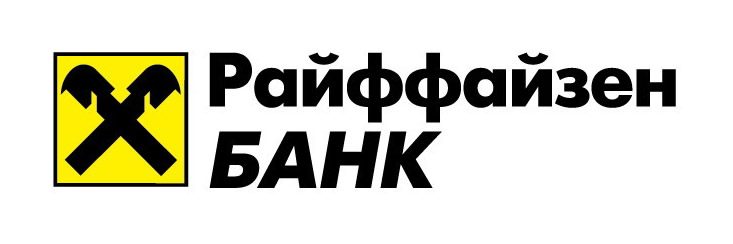
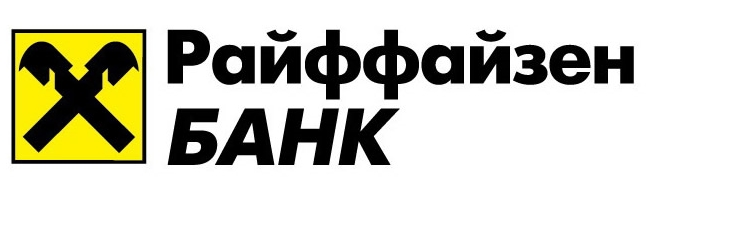
beautify partners

diff --git a/app/assets/stylesheets/application.css b/app/assets/stylesheets/application.css
@@ -7,6 +7,17 @@
 	background-color: #65b32e;
 }
 
+.vk {
+	max-height: 20px;
+}
+
+.fb {
+	max-height: 20px;
+}
+.btn-success {
+	background-color: #65b32e!important;
+}
+
 .email_top {
 	color: white;
 }
@@ -29,9 +40,7 @@
 	display: table;
 	width: 100%;
 }
-.nav>li>a{
-	text-align: center;
-}
+
 
 .navbar-default .navbar-nav > li > a {
     color: black;
